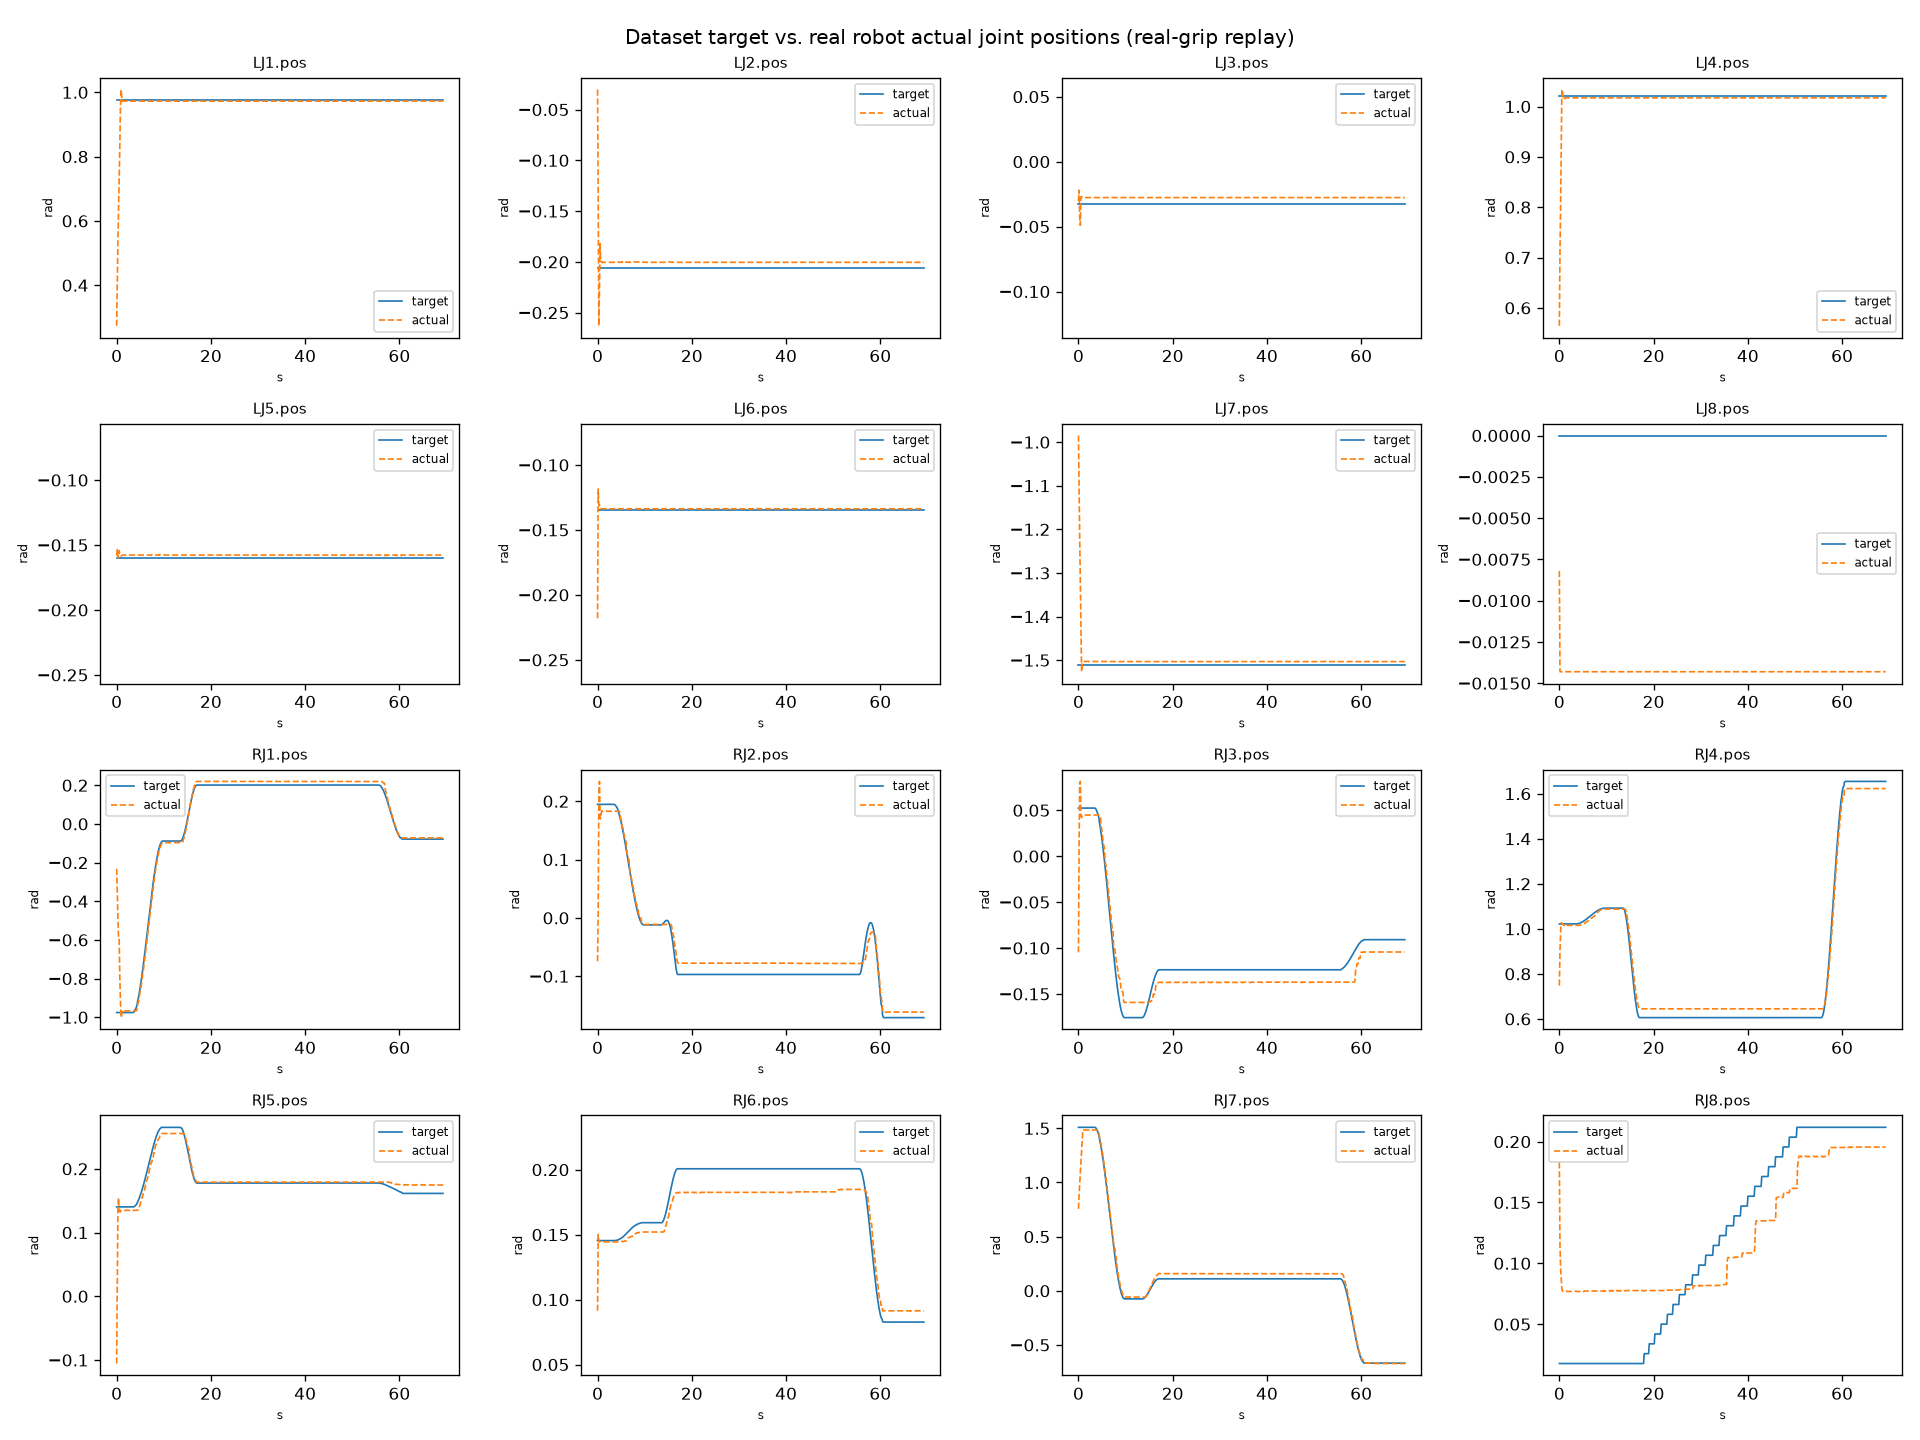
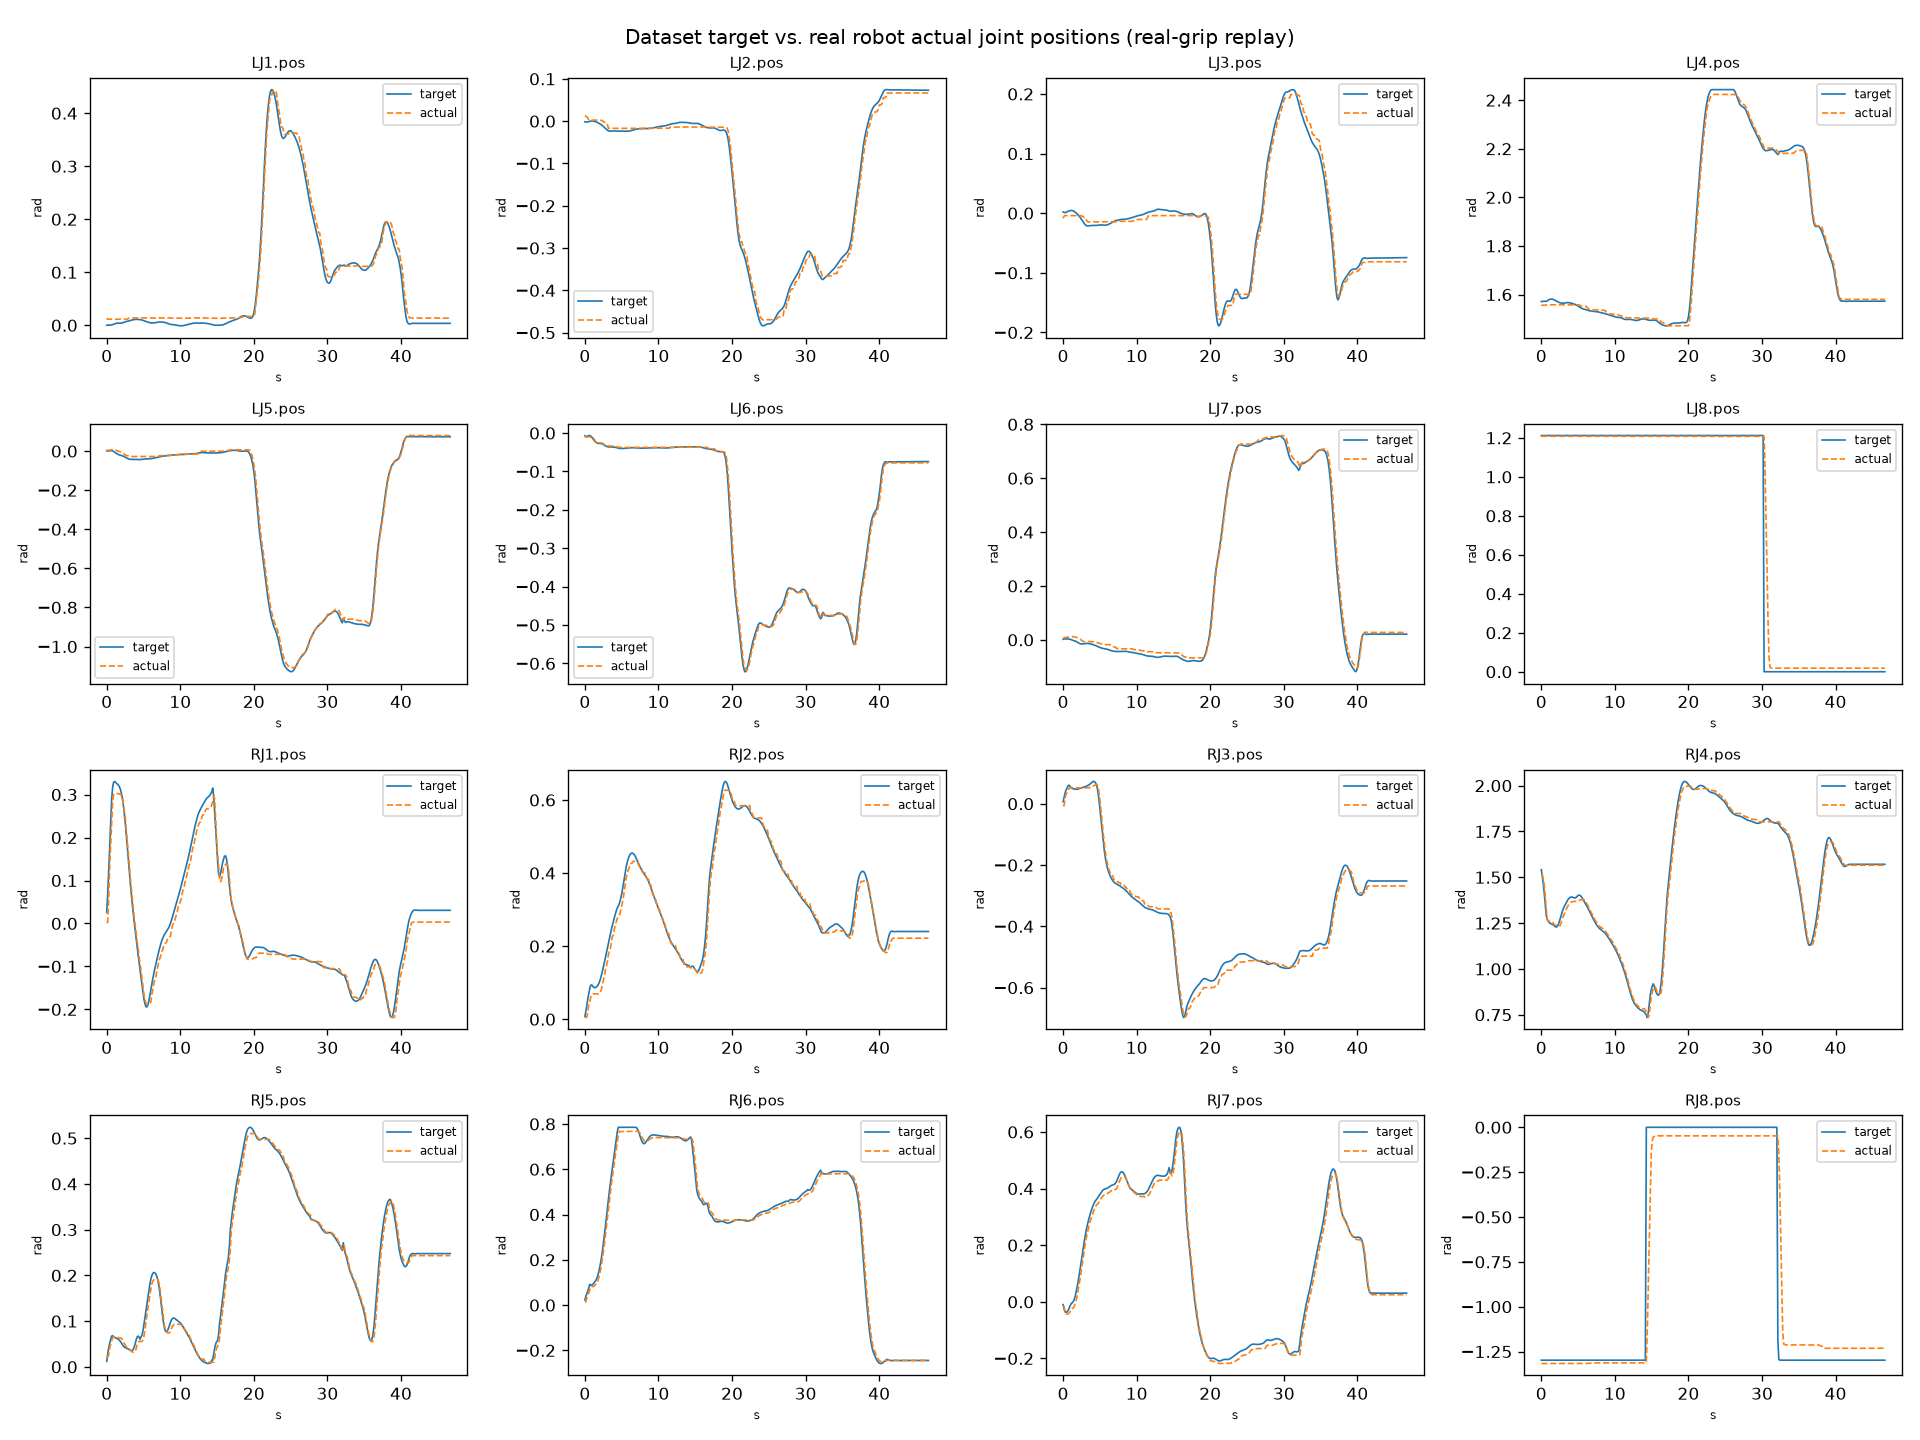
fix smolvla and gr00t async eval to add prompt in it

diff --git a/deploy_gr00t_async.py b/deploy_gr00t_async.py
@@ -247,11 +247,12 @@ class AsyncPolicy:
 
     def __init__(self, *, model, preprocess, postprocess, dataset_features, device,
                  actions_per_chunk, aggregate_fn, chunk_size_threshold, obs_bus, action_queue,
-                 verbose):
+                 verbose, task):
         self.model = model
         self.preprocess = preprocess
         self.postprocess = postprocess
         self.dataset_features = dataset_features
+        self.task = task
         self.device = device
         self.actions_per_chunk = actions_per_chunk
         self.aggregate_fn = aggregate_fn
@@ -289,7 +290,7 @@ class AsyncPolicy:
             observation=obs,
             ds_features=self.dataset_features,
             device=self.device,
-            task=TASK,
+            task=self.task,
             robot_type=ROBOT_TYPE,
         )
         chunk = self.model.predict_action_chunk(self.preprocess(frame))
@@ -385,6 +386,9 @@ def parse_args():
     )
     parser.add_argument("--checkpoint", type=str, required=True,
                         help="HF repo id or local path of the joint-space GR00T N1.7 checkpoint.")
+    parser.add_argument("--task", type=str, default=TASK,
+                        help="Language instruction to condition the policy on for every rollout "
+                             f"(default: {TASK!r}).")
     parser.add_argument("--dtype", default="bfloat16", choices=["float32", "bfloat16", "float16"],
                         help="Parameter dtype to cast the loaded policy to before moving it onto "
                              "--device. This checkpoint's fp32 master weights (~12GB for the 3B "
@@ -495,6 +499,7 @@ def main():
     args = parse_args()
     if not 0.0 <= args.chunk_size_threshold <= 1.0:
         raise SystemExit(f"--chunk-size-threshold must be in [0, 1], got {args.chunk_size_threshold}")
+    print(f"[INFO] task: {args.task!r}")
 
     calib = load_calibration(args.calibration)
     device = "cuda" if torch.cuda.is_available() else "cpu"
@@ -617,6 +622,7 @@ def main():
         obs_bus=obs_bus,
         action_queue=action_queue,
         verbose=not args.quiet,
+        task=args.task,
     )
     async_policy.start()
 

diff --git a/deploy_smolvla_async.py b/deploy_smolvla_async.py
@@ -314,12 +314,13 @@ class AsyncPolicy:
 
     def __init__(self, *, model, preprocess, postprocess, dataset_features, device,
                  actions_per_chunk, aggregate_fn, chunk_size_threshold, obs_bus, action_queue,
-                 verbose):
+                 verbose, task):
         self.model = model
         self.preprocess = preprocess
         self.postprocess = postprocess
         self.dataset_features = dataset_features
         self.device = device
+        self.task = task
         self.actions_per_chunk = actions_per_chunk
         self.aggregate_fn = aggregate_fn
         self.chunk_size_threshold = chunk_size_threshold
@@ -352,7 +353,7 @@ class AsyncPolicy:
             observation=obs,
             ds_features=self.dataset_features,
             device=self.device,
-            task=TASK,
+            task=self.task,
             robot_type=ROBOT_TYPE,
         )
         chunk = self.model.predict_action_chunk(self.preprocess(frame))
@@ -456,6 +457,9 @@ def parse_args():
     )
     parser.add_argument("--checkpoint", type=str, required=True,
                         help="HF repo id or local path of the joint-space SmolVLA checkpoint.")
+    parser.add_argument("--task", type=str, default=TASK,
+                        help="Language instruction to condition the policy on for every rollout "
+                             f"(default: {TASK!r}).")
     parser.add_argument("--body-cam-index", type=_video_index, required=True,
                         help="Camera for observation.images.body_cam. "
                              "Takes a /dev/video index or a udev alias (rs_body).")
@@ -566,6 +570,7 @@ def main():
     args = parse_args()
     if not 0.0 <= args.chunk_size_threshold <= 1.0:
         raise SystemExit(f"--chunk-size-threshold must be in [0, 1], got {args.chunk_size_threshold}")
+    print(f"[INFO] task: {args.task!r}")
 
     calib = load_calibration(args.calibration)
     device = "cuda" if torch.cuda.is_available() else "cpu"
@@ -675,6 +680,7 @@ def main():
         obs_bus=obs_bus,
         action_queue=action_queue,
         verbose=not args.quiet,
+        task=args.task,
     )
     async_policy.start()
 

diff --git a/deploy_smolvla_pickup_jointspace.py b/deploy_smolvla_pickup_jointspace.py
@@ -472,6 +472,10 @@ def parse_args():
         ),
     )
     parser.add_argument(
+        "--task", type=str, default=TASK,
+        help=f"Language instruction to condition the policy on for every rollout (default: {TASK!r}).",
+    )
+    parser.add_argument(
         "--body-cam-index", type=_video_index, required=True,
         help=(
             "Camera on the robot body (its color/RGB stream). Takes a /dev/video index (4) or "
@@ -703,6 +707,7 @@ def parse_args():
 
 def main():
     args = parse_args()
+    print(f"[INFO] task: {args.task!r}")
     device = torch.device("cuda" if torch.cuda.is_available() else "cpu")
 
     calib = load_calibration(args.calibration)
@@ -1148,7 +1153,7 @@ def main():
                     observation=obs,
                     ds_features=dataset_features,
                     device=device,
-                    task=TASK,
+                    task=args.task,
                     robot_type=ROBOT_TYPE,
                 )
                 obs_processed = preprocess(obs_frame)
